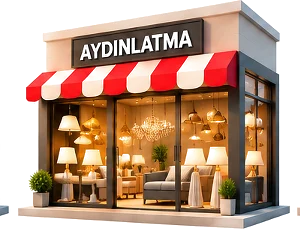
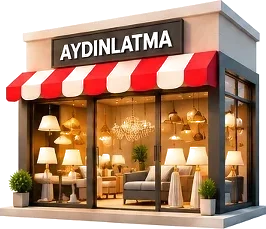
listing screen: R39 again, R45-R48
R39 Only half of what depends on the location had been taught the difference between "no
location" and "not read back yet" -- the sentence above the button had not, and it was the
sentence that was flashing.

R45 The heading is centred in the room it has rather than starting at the edge of it, and
the phrase on the second line is capitalised as a line. R46 The place being searched from
loses its frame: it names where the search is, it is not a control; the clear control takes
the ink of the control beside it, and its rule belongs to the words rather than running on
under the broom, which made the broom look struck through.

R47 The two tiles take the ground the shop marks sit on, one ink for both marks, and the
rule that separates the shops below them.

R48 Six of the drawn shops carried a sliver of a neighbour at one edge. The strays that
stood apart came off by keeping the largest connected drawing; the ones joined by an
anti-aliased fringe needed the column profile -- a shop is a broad mass, a leftover is a
narrow band with a valley between it and the mass.

diff --git a/src/i18n/dictionaries.ts b/src/i18n/dictionaries.ts
@@ -1,6 +1,6 @@
 import type { Locale } from '@/lib/types';
 export const dictionaries={
-tr:{purchasedLabel:'Satın alınan',lowScoreRule:'1 ve 2 puan verilen değerlendirmelerde açıklama yapmak zorunludur. “Detay gör”e tıklayarak açıklamayı görebilirsin.',lowScoreRuleTitle:'Neden bu uyarı var?',whyWarning:'Bu uyarı ne demek?',purchaseMade:'Alışveriş yapılmış',productLabel:'ürün',seeDetail:'Detay gör',hideDetail:'Detayı gizle',home:'Ana Sayfa',discover:'Keşfet',favorites:'Favoriler',profile:'Profil',create:'Yorum Yaz',wordmark:'Boşa Gezme!',feedTitle:'Gerçek mağazalar. Gerçek deneyimler.',feedIntro:'İnsanların ev ve yaşam mağazalarında neler keşfettiğine göz at.',siteSnippet:'Boşa Gezme!, gerçek ev ve yaşam mağazalarını değerlendirmeye yarayan bir topluluk platformudur.',verified:'Doğrulanmış ziyaret',save:'Kaydet',saveStore:'Mağazayı kaydet',share:'Paylaş',review:'Yorum yaz',directions:'Yol tarifi',callStore:'Ara',searchTitle:'Sana uygun [mağazaları bul]',searchHint:'salonum için perde arıyorum',searchAction:'Ara',recent:'Son aramalar',categories:'Ev ve yaşam kategorileri',searchCount:'Aranma adedi',searchCountShort:'arama',nearby:'Yakınımda keşfet',results:'sonuç',showMoreResults:'Daha fazla göster',noCommunity:'Henüz değerlendirme yok.',firstReview:'İlk deneyimi sen paylaş.',communityRating:'Boşa Gezme!',googleRating:'Google',reviews:'yorum',reviewWord:'değerlendirme',storeQuestion:'Gitmeye değer mi?',about:'Mağaza hakkında',community:'Topluluk deneyimleri',signIn:'Giriş yap',signInTitle:'Devam etmek için giriş yap',google:'Google ile devam et',email:'E-posta ile devam et',later:'Şimdi değil',favoritesTitle:'Değerlendirme için kaydettiğin mağazalar',favoritesEmpty:'Kaydettiğin mağazaları görmek için giriş yapmalısın.',favoritesSignedInEmpty:'Kaydedilmiş mağazanız yok.',createTitle:'Ziyaretini paylaş',profileTitle:'Profilin',language:'Dil',languageSaveError:'Dil hesabına kaydedilemedi. Tekrar dener misin?',close:'Kapat',lighting:'Aydınlatma',furniture:'Mobilya',textile:'Ev tekstili',decoration:'Dekorasyon',loading:'Aranıyor…',searchError:'Arama şu anda tamamlanamadı. Tekrar dene.',locationUnavailable:'Konum bu cihazda kullanılamıyor.',locationDenied:'Konum izni verilmedi. Bir konum seçerek devam edebilirsin.',currentLocation:'Mevcut konum',locatingYou:'Konumun alınıyor…',change:'Değiştir',clearLocation:'Konumu temizle',chooseLocation:'Konum seç',locationRequired:'Bulunduğun yere en yakın mağazaları listelememiz için mevcut konumunu kullan. İstersen konumunu kendin seçerek de ilerleyebilirsin.',authTermsPrefix:'Giriş yaparak ',authTermsLink:'Kullanım Koşulları',authTermsMiddle:'’nı kabul etmiş, ',authPrivacyLink:'Gizlilik Politikası',authPrivacyMiddle:' ve ',authKvkkLink:'KVKK Aydınlatma Metni',authTermsSuffix:'’ni okuduğunuzu onaylamış olursunuz.',authAgeNotice:'Devam ederek 16 yaşından büyük olduğunuzu beyan etmiş olursunuz. 16 yaşından küçük olduğunu öğrendiğimiz hesaplar kapatılır.',saveReason:'İleride değerlendirmek için',deleteReview:'Değerlendirmeyi sil',confirmDeleteReview:'Bu değerlendirme silinsin mi? Geri alınamaz.',deleteReviewFailed:'Değerlendirme silinemedi. Tekrar dener misin?',levelTitle:'Katkı seviyesi',level1:'Yeni Gezgin',level2:'Kaşif',level3:'Deneyimli',level4:'Rehber',level5:'Usta Rehber',promoted:'Öne çıkarılmış',catalogStore:'Katalog mağaza',openMapCredit:'Bu mağazanın kaydı açık haritadan alındı: © OpenStreetMap katkıcıları.',openMapCreditLink:'Lisans',approximateLocation:'Bu mağazanın tam konumu paylaşılmamış. Haritadaki yeri, adresine göre yaklaşık olarak işaretlendi.',searchStep1:'İsteğini okuyorum',searchStep2:'Yakınındaki mağazaları buluyorum',searchStep3:'Topluluk değerlendirmelerini tartıyorum',searchStep4:'En yakından uzağa sıralıyorum',signOut:'Çıkış yap',locationTitle:'Yakınındaki yerleri keşfet',locationBenefit:'Yakındaki mağazaları önce göstermek için konumunu yalnızca bu aramada kullanırız.',useCurrentLocation:'Mevcut konumu kullan',locationHint:'İlçe, mahalle veya şehir',noLocations:'Eşleşen bir konum bulunamadı.',locationResolveError:'Seçtiğin konum doğrulanamadı. Başka bir yer seçmeyi dener misin?',yourDistance:'Mesafen',scoreDetail:'Detay',noCriteriaYet:'Bu mağazanın ölçüt puanları henüz yok.',listedStores:'Listelenen mağaza',sortedBy:'Sıralama ölçütü',sortedByDistance:'Konum mesafesi',notFoundTitle:'Aradığın mağazayı bulamadıysan',notFoundBody:'Mağaza henüz kataloğumuzda yer almıyor olabilir.',notFoundInvite:'Sen ekleyerek diğer kullanıcılara da yardımcı olabilirsin.',addStore:'Mağaza ekle',addStoreTitle:'Mağaza ekle',addStoreIntro:'Mağazanın Google Haritalar bağlantısını yapıştır, biz de kataloğa eklemek için inceleyelim.',addStoreLabel:'Google Haritalar bağlantısı',addStoreSend:'Gönder',addStoreSending:'Gönderiliyor…',addStoreDone:'Teşekkürler, önerini aldık. İnceleyip kataloğa ekleyeceğiz.',addStoreInvalid:'Bu bir Google Haritalar bağlantısına benzemiyor. Bağlantıyı mağaza sayfasındaki “Paylaş”tan alabilirsin.',addStoreFailed:'Öneri gönderilemedi. Tekrar dener misin?',purchaseTitle:'Alışverişin',purchaseIntro:'Bu ziyaretinde bir şey aldın mı? Cevabın, mağazanın aradığın ürünü bulundurup bulundurmadığını bir sonraki kişiye anlatır.',purchaseQuestion:'Alışveriş yaptın mı?',purchasedItemLabel:'Ürün ismi',purchasedItemHint:'Ne aldığını kendi kelimelerinle yaz',purchasedYes:'Alışveriş yaptım',purchasedNo:'Alışveriş yapmadım',clearScores:'Seçimleri temizle',yes:'Evet',no:'Hayır',zeroTitle:'Tam eşleşme bulamadık',zeroBody:'Daha genel bir ürün ya da mağaza adı deneyebilirsin.'},
+tr:{purchasedLabel:'Satın alınan',lowScoreRule:'1 ve 2 puan verilen değerlendirmelerde açıklama yapmak zorunludur. “Detay gör”e tıklayarak açıklamayı görebilirsin.',lowScoreRuleTitle:'Neden bu uyarı var?',whyWarning:'Bu uyarı ne demek?',purchaseMade:'Alışveriş yapılmış',productLabel:'ürün',seeDetail:'Detay gör',hideDetail:'Detayı gizle',home:'Ana Sayfa',discover:'Keşfet',favorites:'Favoriler',profile:'Profil',create:'Yorum Yaz',wordmark:'Boşa Gezme!',feedTitle:'Gerçek mağazalar. Gerçek deneyimler.',feedIntro:'İnsanların ev ve yaşam mağazalarında neler keşfettiğine göz at.',siteSnippet:'Boşa Gezme!, gerçek ev ve yaşam mağazalarını değerlendirmeye yarayan bir topluluk platformudur.',verified:'Doğrulanmış ziyaret',save:'Kaydet',saveStore:'Mağazayı kaydet',share:'Paylaş',review:'Yorum yaz',directions:'Yol tarifi',callStore:'Ara',searchTitle:'Sana uygun [Mağazaları bul]',searchHint:'salonum için perde arıyorum',searchAction:'Ara',recent:'Son aramalar',categories:'Ev ve yaşam kategorileri',searchCount:'Aranma adedi',searchCountShort:'arama',nearby:'Yakınımda keşfet',results:'sonuç',showMoreResults:'Daha fazla göster',noCommunity:'Henüz değerlendirme yok.',firstReview:'İlk deneyimi sen paylaş.',communityRating:'Boşa Gezme!',googleRating:'Google',reviews:'yorum',reviewWord:'değerlendirme',storeQuestion:'Gitmeye değer mi?',about:'Mağaza hakkında',community:'Topluluk deneyimleri',signIn:'Giriş yap',signInTitle:'Devam etmek için giriş yap',google:'Google ile devam et',email:'E-posta ile devam et',later:'Şimdi değil',favoritesTitle:'Değerlendirme için kaydettiğin mağazalar',favoritesEmpty:'Kaydettiğin mağazaları görmek için giriş yapmalısın.',favoritesSignedInEmpty:'Kaydedilmiş mağazanız yok.',createTitle:'Ziyaretini paylaş',profileTitle:'Profilin',language:'Dil',languageSaveError:'Dil hesabına kaydedilemedi. Tekrar dener misin?',close:'Kapat',lighting:'Aydınlatma',furniture:'Mobilya',textile:'Ev tekstili',decoration:'Dekorasyon',loading:'Aranıyor…',searchError:'Arama şu anda tamamlanamadı. Tekrar dene.',locationUnavailable:'Konum bu cihazda kullanılamıyor.',locationDenied:'Konum izni verilmedi. Bir konum seçerek devam edebilirsin.',currentLocation:'Mevcut konum',locatingYou:'Konumun alınıyor…',change:'Değiştir',clearLocation:'Konumu temizle',chooseLocation:'Konum seç',locationRequired:'Bulunduğun yere en yakın mağazaları listelememiz için mevcut konumunu kullan. İstersen konumunu kendin seçerek de ilerleyebilirsin.',authTermsPrefix:'Giriş yaparak ',authTermsLink:'Kullanım Koşulları',authTermsMiddle:'’nı kabul etmiş, ',authPrivacyLink:'Gizlilik Politikası',authPrivacyMiddle:' ve ',authKvkkLink:'KVKK Aydınlatma Metni',authTermsSuffix:'’ni okuduğunuzu onaylamış olursunuz.',authAgeNotice:'Devam ederek 16 yaşından büyük olduğunuzu beyan etmiş olursunuz. 16 yaşından küçük olduğunu öğrendiğimiz hesaplar kapatılır.',saveReason:'İleride değerlendirmek için',deleteReview:'Değerlendirmeyi sil',confirmDeleteReview:'Bu değerlendirme silinsin mi? Geri alınamaz.',deleteReviewFailed:'Değerlendirme silinemedi. Tekrar dener misin?',levelTitle:'Katkı seviyesi',level1:'Yeni Gezgin',level2:'Kaşif',level3:'Deneyimli',level4:'Rehber',level5:'Usta Rehber',promoted:'Öne çıkarılmış',catalogStore:'Katalog mağaza',openMapCredit:'Bu mağazanın kaydı açık haritadan alındı: © OpenStreetMap katkıcıları.',openMapCreditLink:'Lisans',approximateLocation:'Bu mağazanın tam konumu paylaşılmamış. Haritadaki yeri, adresine göre yaklaşık olarak işaretlendi.',searchStep1:'İsteğini okuyorum',searchStep2:'Yakınındaki mağazaları buluyorum',searchStep3:'Topluluk değerlendirmelerini tartıyorum',searchStep4:'En yakından uzağa sıralıyorum',signOut:'Çıkış yap',locationTitle:'Yakınındaki yerleri keşfet',locationBenefit:'Yakındaki mağazaları önce göstermek için konumunu yalnızca bu aramada kullanırız.',useCurrentLocation:'Mevcut konumu kullan',locationHint:'İlçe, mahalle veya şehir',noLocations:'Eşleşen bir konum bulunamadı.',locationResolveError:'Seçtiğin konum doğrulanamadı. Başka bir yer seçmeyi dener misin?',yourDistance:'Mesafen',scoreDetail:'Detay',noCriteriaYet:'Bu mağazanın ölçüt puanları henüz yok.',listedStores:'Listelenen mağaza',sortedBy:'Sıralama ölçütü',sortedByDistance:'Konum mesafesi',notFoundTitle:'Aradığın mağazayı bulamadıysan',notFoundBody:'Mağaza henüz kataloğumuzda yer almıyor olabilir.',notFoundInvite:'Sen ekleyerek diğer kullanıcılara da yardımcı olabilirsin.',addStore:'Mağaza ekle',addStoreTitle:'Mağaza ekle',addStoreIntro:'Mağazanın Google Haritalar bağlantısını yapıştır, biz de kataloğa eklemek için inceleyelim.',addStoreLabel:'Google Haritalar bağlantısı',addStoreSend:'Gönder',addStoreSending:'Gönderiliyor…',addStoreDone:'Teşekkürler, önerini aldık. İnceleyip kataloğa ekleyeceğiz.',addStoreInvalid:'Bu bir Google Haritalar bağlantısına benzemiyor. Bağlantıyı mağaza sayfasındaki “Paylaş”tan alabilirsin.',addStoreFailed:'Öneri gönderilemedi. Tekrar dener misin?',purchaseTitle:'Alışverişin',purchaseIntro:'Bu ziyaretinde bir şey aldın mı? Cevabın, mağazanın aradığın ürünü bulundurup bulundurmadığını bir sonraki kişiye anlatır.',purchaseQuestion:'Alışveriş yaptın mı?',purchasedItemLabel:'Ürün ismi',purchasedItemHint:'Ne aldığını kendi kelimelerinle yaz',purchasedYes:'Alışveriş yaptım',purchasedNo:'Alışveriş yapmadım',clearScores:'Seçimleri temizle',yes:'Evet',no:'Hayır',zeroTitle:'Tam eşleşme bulamadık',zeroBody:'Daha genel bir ürün ya da mağaza adı deneyebilirsin.'},
 en:{purchasedLabel:'Bought',lowScoreRule:'An explanation is required for any heading scored one or two. Tap “See detail” to read it.',lowScoreRuleTitle:'Why is this marked?',whyWarning:'What does this mark mean?',purchaseMade:'Purchase made',productLabel:'product',seeDetail:'See detail',hideDetail:'Hide detail',home:'Home',discover:'Discover',favorites:'Favorites',profile:'Profile',create:'Create Review',wordmark:'Boşa Gezme!',feedTitle:'Real stores. Real experiences.',feedIntro:'See what people discovered inside home and living stores.',siteSnippet:'Boşa Gezme! is a community platform for reviewing real home and living stores.',verified:'Verified visit',save:'Save',share:'Share',review:'Review',directions:'Directions',callStore:'Call',searchTitle:'Find the [stores that suit you]',searchHint:'I am looking for curtains for my living room',searchAction:'Search',recent:'Recent searches',categories:'Home and living categories',searchCount:'Times searched',searchCountShort:'searches',nearby:'Discover nearby',results:'results',showMoreResults:'Show more',noCommunity:'No reviews yet.',firstReview:'Be the first to share your experience.',communityRating:'Boşa Gezme!',googleRating:'Google',reviews:'reviews',reviewWord:'reviews',storeQuestion:'Is it worth the trip?',about:'About this store',community:'Community experiences',signIn:'Sign in',signInTitle:'Sign in to continue',google:'Continue with Google',email:'Continue with Email',later:'Not now',favoritesTitle:'Places you want to visit',favoritesEmpty:'Sign in to see the stores you saved.',favoritesSignedInEmpty:'You have no saved stores.',createTitle:'Share your visit',profileTitle:'Your profile',language:'Language',languageSaveError:'We could not save the language to your account. Please try again.',close:'Close',lighting:'Lighting',furniture:'Furniture',textile:'Home textile',decoration:'Decoration',loading:'Searching…',searchError:'Search could not be completed. Try again.',locationUnavailable:'Location is unavailable on this device.',locationDenied:'Location access was not granted. You can choose a place instead.',currentLocation:'Current location',locatingYou:'Finding your location…',change:'Change',clearLocation:'Clear location',chooseLocation:'Choose a location',locationRequired:'Use your current location so we can list the stores nearest to you. You can also pick a location yourself.',authTermsPrefix:'By signing in you accept the ',authTermsLink:'Terms of Service',authTermsMiddle:' and confirm you have read the ',authPrivacyLink:'Privacy Policy',authPrivacyMiddle:' and the ',authKvkkLink:'KVKK Disclosure Notice',authTermsSuffix:'.',authAgeNotice:'By continuing you declare that you are over 16. Accounts we learn belong to someone under 16 are closed.',saveReason:'To review later',deleteReview:'Delete review',confirmDeleteReview:'Delete this review? This cannot be undone.',deleteReviewFailed:'The review could not be deleted. Try again?',levelTitle:'Contributor level',level1:'New explorer',level2:'Explorer',level3:'Seasoned',level4:'Guide',level5:'Master guide',promoted:'Promoted',catalogStore:'Catalogue store',openMapCredit:'This store’s record comes from the open map: © OpenStreetMap contributors.',openMapCreditLink:'Licence',approximateLocation:'This store has not shared its exact location. It is marked on the map roughly, from its address.',searchStep1:'Reading your request',searchStep2:'Finding stores near you',searchStep3:'Weighing community reviews',searchStep4:'Ordering nearest to farthest',signOut:'Sign out',locationTitle:'Discover places near you',locationBenefit:'We use your location only for this search to show nearby stores first.',useCurrentLocation:'Use current location',locationHint:'District, neighborhood, or city',noLocations:'No matching locations found.',locationResolveError:'That location could not be confirmed. Try choosing another one.',yourDistance:'Your distance',scoreDetail:'Detail',noCriteriaYet:'This store has no criterion scores yet.',listedStores:'Stores listed',sortedBy:'Sorted by',sortedByDistance:'Distance from your location',notFoundTitle:'Did not find the store you were looking for?',notFoundBody:'It may not be in our catalogue yet.',notFoundInvite:'Adding it helps everyone who looks for it next.',addStore:'Add a store',addStoreTitle:'Add a store',addStoreIntro:'Paste the store’s Google Maps link and we will review it for the catalogue.',addStoreLabel:'Google Maps link',addStoreSend:'Send',addStoreSending:'Sending…',addStoreDone:'Thank you — we have your suggestion and will review it.',addStoreInvalid:'That does not look like a Google Maps link. You can copy it from “Share” on the store’s Maps page.',addStoreFailed:'The suggestion could not be sent. Try again?',purchaseTitle:'Your purchase',purchaseIntro:'Did you buy anything on this visit? Your answer tells the next person whether the store had what they are looking for.',purchaseQuestion:'Did you buy anything?',purchasedItemLabel:'What you bought',purchasedItemHint:'Name it in your own words',purchasedYes:'Bought something',purchasedNo:'Did not buy anything',clearScores:'Clear the scores',yes:'Yes',no:'No',zeroTitle:'No close matches yet',zeroBody:'Try a broader product or store name.'},
 de:{purchasedLabel:'Gekauft',lowScoreRule:'Für jede mit einem oder zwei Punkten bewertete Rubrik ist eine Begründung Pflicht. Tippe auf „Details ansehen“, um sie zu lesen.',lowScoreRuleTitle:'Warum ist das markiert?',whyWarning:'Was bedeutet diese Markierung?',purchaseMade:'Einkauf getätigt',productLabel:'Produkt',seeDetail:'Details ansehen',hideDetail:'Details ausblenden',home:'Start',discover:'Entdecken',favorites:'Favoriten',profile:'Profil',create:'Bewertung erstellen',wordmark:'Boşa Gezme!',feedTitle:'Echte Geschäfte. Echte Erfahrungen.',feedIntro:'Entdecke, was Menschen in Wohn- und Einrichtungsgeschäften gefunden haben.',siteSnippet:'Boşa Gezme! ist eine Community-Plattform zur Bewertung echter Wohn- und Einrichtungsgeschäfte.',verified:'Verifizierter Besuch',save:'Speichern',share:'Teilen',review:'Bewerten',directions:'Route',callStore:'Anrufen',searchTitle:'Finde die [Geschäfte, die zu dir passen]',searchHint:'ich suche Vorhänge für mein Wohnzimmer',searchAction:'Suchen',recent:'Letzte Suchen',categories:'Wohn- und Lebenskategorien',searchCount:'Suchanfragen',searchCountShort:'Suchen',nearby:'In der Nähe entdecken',results:'Ergebnisse',showMoreResults:'Mehr anzeigen',noCommunity:'Noch keine Bewertungen.',firstReview:'Teile als Erste:r deine Erfahrung.',communityRating:'Boşa Gezme!',googleRating:'Google',reviews:'Bewertungen',reviewWord:'Bewertungen',storeQuestion:'Lohnt sich der Weg?',about:'Über dieses Geschäft',community:'Erfahrungen der Community',signIn:'Anmelden',signInTitle:'Zum Fortfahren anmelden',google:'Weiter mit Google',email:'Weiter mit E-Mail',later:'Nicht jetzt',favoritesTitle:'Orte, die du besuchen möchtest',favoritesEmpty:'Melde dich an, um deine gespeicherten Geschäfte zu sehen.',favoritesSignedInEmpty:'Du hast keine gespeicherten Geschäfte.',createTitle:'Teile deinen Besuch',profileTitle:'Dein Profil',language:'Sprache',languageSaveError:'Die Sprache konnte nicht in deinem Konto gespeichert werden. Bitte versuche es erneut.',close:'Schließen',lighting:'Beleuchtung',furniture:'Möbel',textile:'Heimtextilien',decoration:'Dekoration',loading:'Suche läuft…',searchError:'Die Suche konnte nicht abgeschlossen werden.',locationUnavailable:'Der Standort ist auf diesem Gerät nicht verfügbar.',locationDenied:'Der Standortzugriff wurde nicht erlaubt. Du kannst stattdessen einen Ort wählen.',currentLocation:'Aktueller Standort',locatingYou:'Dein Standort wird ermittelt…',change:'Ändern',clearLocation:'Standort löschen',chooseLocation:'Ort wählen',locationRequired:'Nutze deinen aktuellen Standort, damit wir die nächstgelegenen Geschäfte auflisten können. Du kannst auch selbst einen Ort wählen.',authTermsPrefix:'Mit der Anmeldung akzeptierst du die ',authTermsLink:'Nutzungsbedingungen',authTermsMiddle:' und bestätigst, die ',authPrivacyLink:'Datenschutzerklärung',authPrivacyMiddle:' und den ',authKvkkLink:'KVKK-Informationstext',authTermsSuffix:' gelesen zu haben.',authAgeNotice:'Mit dem Fortfahren erklärst du, über 16 Jahre alt zu sein. Konten von Personen unter 16 werden geschlossen, sobald wir davon erfahren.',saveReason:'Für später zum Bewerten',deleteReview:'Bewertung löschen',confirmDeleteReview:'Diese Bewertung löschen? Das lässt sich nicht rückgängig machen.',deleteReviewFailed:'Die Bewertung konnte nicht gelöscht werden. Erneut versuchen?',levelTitle:'Beitragsstufe',level1:'Neu unterwegs',level2:'Entdecker',level3:'Erfahren',level4:'Guide',level5:'Meister-Guide',promoted:'Hervorgehoben',catalogStore:'Kataloggeschäft',openMapCredit:'Der Eintrag dieses Geschäfts stammt aus der offenen Karte: © OpenStreetMap-Mitwirkende.',openMapCreditLink:'Lizenz',approximateLocation:'Dieses Geschäft hat seinen genauen Standort nicht angegeben. Auf der Karte ist es anhand seiner Adresse ungefähr eingezeichnet.',searchStep1:'Deine Anfrage wird gelesen',searchStep2:'Geschäfte in deiner Nähe werden gesucht',searchStep3:'Community-Bewertungen werden gewichtet',searchStep4:'Sortierung von nah nach fern',signOut:'Abmelden',locationTitle:'Orte in deiner Nähe entdecken',locationBenefit:'Wir verwenden deinen Standort nur für diese Suche, um nahe Geschäfte zuerst zu zeigen.',useCurrentLocation:'Aktuellen Standort verwenden',locationHint:'Bezirk, Viertel oder Stadt',noLocations:'Keine passenden Orte gefunden.',locationResolveError:'Dieser Ort konnte nicht bestätigt werden. Wähle bitte einen anderen.',yourDistance:'Deine Entfernung',scoreDetail:'Details',noCriteriaYet:'Für dieses Geschäft gibt es noch keine Kriterienwerte.',listedStores:'Gelistete Geschäfte',sortedBy:'Sortiert nach',sortedByDistance:'Entfernung von deinem Standort',notFoundTitle:'Das gesuchte Geschäft nicht gefunden?',notFoundBody:'Vielleicht ist es noch nicht in unserem Katalog.',notFoundInvite:'Wenn du es hinzufügst, hilfst du allen, die danach suchen.',addStore:'Geschäft hinzufügen',addStoreTitle:'Geschäft hinzufügen',addStoreIntro:'Füge den Google-Maps-Link des Geschäfts ein, wir prüfen ihn für den Katalog.',addStoreLabel:'Google-Maps-Link',addStoreSend:'Senden',addStoreSending:'Wird gesendet…',addStoreDone:'Danke — wir haben deinen Vorschlag und prüfen ihn.',addStoreInvalid:'Das sieht nicht nach einem Google-Maps-Link aus. Du findest ihn unter „Teilen“ auf der Maps-Seite des Geschäfts.',addStoreFailed:'Der Vorschlag konnte nicht gesendet werden. Erneut versuchen?',purchaseTitle:'Dein Einkauf',purchaseIntro:'Hast du bei diesem Besuch etwas gekauft? Deine Antwort sagt der nächsten Person, ob das Geschäft das Gesuchte führt.',purchaseQuestion:'Hast du etwas gekauft?',purchasedItemLabel:'Was du gekauft hast',purchasedItemHint:'Beschreibe es in deinen eigenen Worten',purchasedYes:'Etwas gekauft',purchasedNo:'Nichts gekauft',clearScores:'Bewertungen zurücksetzen',yes:'Ja',no:'Nein',zeroTitle:'Noch keine passenden Treffer',zeroBody:'Versuche einen allgemeineren Produkt- oder Geschäftsnamen.'},
 ru:{purchasedLabel:'Куплено',lowScoreRule:'Для любой рубрики с оценкой один или два объяснение обязательно. Нажмите «Показать детали», чтобы прочитать его.',lowScoreRuleTitle:'Почему стоит этот знак?',whyWarning:'Что означает этот знак?',purchaseMade:'Покупка совершена',productLabel:'товар',seeDetail:'Показать детали',hideDetail:'Скрыть детали',home:'Главная',discover:'Поиск',favorites:'Избранное',profile:'Профиль',create:'Написать отзыв',wordmark:'Boşa Gezme!',feedTitle:'Настоящие магазины. Настоящий опыт.',feedIntro:'Узнайте, что люди находят в магазинах товаров для дома.',siteSnippet:'Boşa Gezme! — сообщество для оценки настоящих магазинов товаров для дома.',verified:'Подтверждённое посещение',save:'Сохранить',share:'Поделиться',review:'Отзыв',directions:'Маршрут',callStore:'Позвонить',searchTitle:'Найдите [подходящие вам магазины]',searchHint:'ищу шторы для гостиной',searchAction:'Найти',recent:'Недавние запросы',categories:'Категории для дома и жизни',searchCount:'Число запросов',searchCountShort:'запр.',nearby:'Искать рядом',results:'результатов',showMoreResults:'Показать ещё',noCommunity:'Отзывов пока нет.',firstReview:'Поделитесь первым впечатлением.',communityRating:'Boşa Gezme!',googleRating:'Google',reviews:'отзывов',reviewWord:'отзывов',storeQuestion:'Стоит ли ехать?',about:'О магазине',community:'Отзывы сообщества',signIn:'Войти',signInTitle:'Войдите, чтобы продолжить',google:'Продолжить с Google',email:'Продолжить с эл. почтой',later:'Не сейчас',favoritesTitle:'Места, которые хочется посетить',favoritesEmpty:'Войдите, чтобы увидеть сохранённые магазины.',favoritesSignedInEmpty:'У вас нет сохранённых магазинов.',createTitle:'Расскажите о посещении',profileTitle:'Ваш профиль',language:'Язык',languageSaveError:'Не удалось сохранить язык в вашем аккаунте. Попробуйте ещё раз.',close:'Закрыть',lighting:'Освещение',furniture:'Мебель',textile:'Домашний текстиль',decoration:'Декор',loading:'Поиск…',searchError:'Не удалось выполнить поиск. Попробуйте ещё раз.',locationUnavailable:'Геопозиция недоступна на этом устройстве.',locationDenied:'Доступ к геопозиции не предоставлен. Можно выбрать место вручную.',currentLocation:'Текущее местоположение',locatingYou:'Определяем ваше местоположение…',change:'Изменить',clearLocation:'Очистить местоположение',chooseLocation:'Выбрать место',locationRequired:'Разрешите доступ к текущему местоположению, чтобы мы показали ближайшие магазины. Можно также выбрать место самостоятельно.',authTermsPrefix:'Выполняя вход, вы принимаете ',authTermsLink:'Условия использования',authTermsMiddle:' и подтверждаете, что прочитали ',authPrivacyLink:'Политику конфиденциальности',authPrivacyMiddle:' и ',authKvkkLink:'Уведомление KVKK',authTermsSuffix:'.',authAgeNotice:'Продолжая, вы подтверждаете, что вам больше 16 лет. Аккаунты лиц младше 16 закрываются, как только нам становится об этом известно.',saveReason:'Чтобы оценить позже',deleteReview:'Удалить отзыв',confirmDeleteReview:'Удалить этот отзыв? Это нельзя отменить.',deleteReviewFailed:'Не удалось удалить отзыв. Попробовать ещё раз?',levelTitle:'Уровень участника',level1:'Новичок',level2:'Исследователь',level3:'Опытный',level4:'Гид',level5:'Мастер-гид',promoted:'Продвигается',catalogStore:'Магазин каталога',openMapCredit:'Запись об этом магазине взята из открытой карты: © участники OpenStreetMap.',openMapCreditLink:'Лицензия',approximateLocation:'Магазин не указал точное расположение. На карте он отмечен примерно, по адресу.',searchStep1:'Читаем ваш запрос',searchStep2:'Ищем магазины рядом',searchStep3:'Взвешиваем отзывы сообщества',searchStep4:'Сортируем от ближних к дальним',signOut:'Выйти',locationTitle:'Найдите места рядом',locationBenefit:'Мы используем геопозицию только для этого поиска, чтобы сначала показать ближайшие магазины.',useCurrentLocation:'Использовать текущее местоположение',locationHint:'Район, квартал или город',noLocations:'Подходящие места не найдены.',locationResolveError:'Не удалось подтвердить это место. Попробуйте выбрать другое.',yourDistance:'Ваше расстояние',scoreDetail:'Подробнее',noCriteriaYet:'У этого магазина пока нет оценок по критериям.',listedStores:'Показано магазинов',sortedBy:'Сортировка',sortedByDistance:'По расстоянию от вас',notFoundTitle:'Не нашли нужный магазин?',notFoundBody:'Возможно, его ещё нет в нашем каталоге.',notFoundInvite:'Добавьте его — это поможет всем, кто будет искать его следом.',addStore:'Добавить магазин',addStoreTitle:'Добавить магазин',addStoreIntro:'Вставьте ссылку на магазин в Google Картах — мы проверим и добавим его в каталог.',addStoreLabel:'Ссылка на Google Карты',addStoreSend:'Отправить',addStoreSending:'Отправляем…',addStoreDone:'Спасибо — мы получили ваше предложение и рассмотрим его.',addStoreInvalid:'Это не похоже на ссылку Google Карт. Её можно скопировать в разделе «Поделиться» на странице магазина.',addStoreFailed:'Не удалось отправить предложение. Попробовать ещё раз?',purchaseTitle:'Ваша покупка',purchaseIntro:'Вы что-нибудь купили в этот визит? Ответ подскажет следующему покупателю, есть ли в магазине то, что он ищет.',purchaseQuestion:'Вы что-нибудь купили?',purchasedItemLabel:'Что вы купили',purchasedItemHint:'Назовите своими словами',purchasedYes:'Покупка была',purchasedNo:'Покупки не было',clearScores:'Сбросить оценки',yes:'Да',no:'Нет',zeroTitle:'Точных совпадений пока нет',zeroBody:'Попробуйте более общее название товара или магазина.'}} as const;

diff --git a/src/app/daylight.css b/src/app/daylight.css
@@ -116,7 +116,10 @@ svg{stroke-width:2}
    showing underneath. `backwards` plays the entrance and then lets this go back to being an
    ordinary box. */
 .search-hero{max-width:1440px;margin:0 auto;padding:68px 40px 54px;background:var(--canvas);color:var(--ink);animation:ink-in .62s cubic-bezier(.16,1,.3,1) backwards}
-.search-title{display:grid;grid-template-columns:minmax(0,1fr) auto;align-items:start;gap:24px}/* This is the one page where the line is not decoration: asking us is literally what the
+/* R45: the heading is centred in the room it has -- the space between the edge of the
+   screen and the shop -- rather than starting at the edge of it. */
+.search-title{display:grid;grid-template-columns:minmax(0,1fr) auto;align-items:center;gap:24px}
+.search-title h1{text-align:center}/* This is the one page where the line is not decoration: asking us is literally what the
    field below it does. */.search-slogan{margin:0 0 14px;font-size:13px;font-weight:600;text-transform:uppercase;letter-spacing:.1em;color:var(--accent-ink)}
 .search-title-shop{width:clamp(150px,20vw,260px);height:auto;justify-self:end;align-self:start}
 .search-hero h1{max-width:900px;font-size:clamp(44px,6vw,78px)}
@@ -158,7 +161,8 @@ svg{stroke-width:2}
 .location-control{display:flex;flex-wrap:wrap;align-items:center;gap:12px;color:var(--ink-muted)}
 /* R42: the pin stands outside the frame, level with the mark on the control beside it, so
    the two read as a pair of marked items rather than one badge and one button. */
-.location-current{display:inline-flex;align-items:center;min-height:40px;padding:4px 16px;border:1px solid var(--line);border-radius:var(--r-pill);background:var(--muted);color:var(--ink);font-size:14px;font-weight:650}
+/* R46: no frame. It names where the search is being made from; it is not a control. */
+.location-current{display:inline-flex;align-items:center;min-height:40px;padding:4px 2px;border:0;background:none;color:var(--ink);font-size:14px;font-weight:650}
 .location-current-mark{display:inline-flex;align-items:center;justify-content:center;width:17px;flex:none;color:var(--ink-muted)}
 .location-current-mark svg{width:17px;height:17px}
 .location-control{gap:8px}
@@ -971,7 +975,7 @@ svg{stroke-width:2}
 
 .profile-section-content .profile-form-actions .button.primary{background:var(--clay);color:var(--surface)}
 .account-loading-progress{height:2px;width:72px;background:var(--line-strong);margin-top:24px}
-.location-control.is-device .location-current{border-color:color-mix(in srgb,var(--success) 30%,var(--line));background:color-mix(in srgb,var(--success) 8%,var(--surface));color:var(--success)}
+.location-control.is-device .location-current{color:var(--success)}
 .location-control.is-device .location-current-mark{color:var(--success)}
 .search-form{position:relative}
 .search-query-suggestions{position:absolute;z-index:10;left:0;right:0;top:calc(100% + 8px);background:var(--surface);box-shadow:var(--lift);border-radius:var(--r-md);padding:8px 8px 24px}
@@ -1354,18 +1358,18 @@ svg{stroke-width:2}
 /* The two things somebody needs before they start down a long list: how much of it there
    is, and what decided the order. As two lines of small print above the list they read as a
    caption; in frames they read as the answer to a question. */
-.result-count{display:grid;grid-template-columns:repeat(2,minmax(0,1fr));gap:12px;margin:18px 0 8px}
+/* R47: the same ground the shop marks sit on, and the same rule that separates the shops
+   underneath, so the pair reads as the head of the list rather than as two loose cards. */
+.result-count{display:grid;grid-template-columns:repeat(2,minmax(0,1fr));gap:12px;margin:18px 0 0;padding-bottom:18px;border-bottom:1px solid var(--line)}
 .result-count>div{display:grid;grid-template-columns:auto minmax(0,1fr);align-items:center;gap:12px;min-width:0;padding:12px 14px;border-radius:var(--r-lg)}
 .result-count>div>div{display:grid;gap:2px;min-width:0}
-.result-count-total{background:color-mix(in srgb,var(--success) 9%,var(--surface))}
-.result-count-sort{background:var(--accent-wash)}
+.result-count-total,.result-count-sort{background:var(--muted)}
 .result-count-mark{display:grid;place-items:center;width:38px;height:38px;border-radius:var(--r-md);background:color-mix(in srgb,var(--surface) 72%,transparent);flex:none}
 .result-count-mark svg{width:20px;height:20px}
-.result-count-total .result-count-mark{color:var(--success)}
-.result-count-sort .result-count-mark{color:var(--clay)}
+.result-count-mark{color:var(--ink-muted)}
 .result-count dt{font-size:11px;text-transform:none;letter-spacing:0;color:var(--ink-muted);line-height:1.25}
 .result-count dd{margin:0;font-size:14px;font-weight:750;color:var(--ink)}
-.result-count-total dd{font-size:24px;line-height:1.05;color:var(--success)}
+.result-count-total dd{font-size:24px;line-height:1.05;color:var(--ink)}
 @media(max-width:330px){.result-count{grid-template-columns:minmax(0,1fr)}}
 /* The end of the list is a question too. */
 /* A notice, not a card in the list: its own ground, its own colour, and a mark that says so
@@ -1589,9 +1593,12 @@ svg{stroke-width:2}
    the width of its own words and centred both ways -- whichever kind of container it lands in. */
 /* A frame around this said "another thing to press" beside the results it undoes. It is
    a word and a broom now, over a rule that fades out the way a swept floor does. */
-.clear-results{position:relative;display:flex;width:fit-content;align-self:center;align-items:center;justify-content:center;gap:10px;min-height:44px;margin:14px auto 0;padding:0 2px 8px;border:0;border-radius:0;background:none;color:var(--ink);font-size:15px;font-weight:700;transition:color .16s ease}
-.clear-results::after{content:'';position:absolute;left:0;right:0;bottom:2px;height:2px;border-radius:2px;background:linear-gradient(90deg,var(--ink) 0%,color-mix(in srgb,var(--ink) 55%,transparent) 62%,transparent 100%)}
-.clear-results:hover{color:var(--accent-ink)}
+/* R46: the same ink as "change location", and the rule belongs to the words -- it used to
+   run on under the broom, which made the broom look struck through. */
+.clear-results{position:relative;display:flex;width:fit-content;align-self:center;align-items:center;justify-content:center;gap:10px;min-height:44px;margin:14px auto 0;padding:0 2px;border:0;border-radius:0;background:none;color:var(--ink-muted);font-size:15px;font-weight:700;transition:color .16s ease}
+.clear-results>span{position:relative;padding-bottom:8px}
+.clear-results>span::after{content:'';position:absolute;left:0;right:0;bottom:2px;height:2px;border-radius:2px;background:linear-gradient(90deg,currentColor 0%,color-mix(in srgb,currentColor 55%,transparent) 62%,transparent 100%)}
+.clear-results:hover{color:var(--ink)}
 /* Sized here rather than on the mark's own class: a descendant selector outranks it, and
    that is exactly how a magnifier on this page stayed 18px while its own rule said 32. */
 .clear-results svg{width:26px;height:26px;flex:none}
@@ -1723,8 +1730,8 @@ svg{stroke-width:2}
    needs -- it was the full width of the sheet for a decision that is two words long. */
 .category-sheet-foot{display:grid;grid-template-columns:minmax(0,1fr) minmax(0,1fr);align-items:end;gap:14px}
 .category-sheet-sign{width:100%;max-width:150px;height:auto;justify-self:start;align-self:end}
-.category-sheet-act{display:grid;gap:8px;justify-items:end}
-.category-sheet-lead{margin:0;text-align:right;font-size:13px;font-weight:700;letter-spacing:.08em;text-transform:uppercase;color:var(--ink-muted)}
+.category-sheet-act{display:grid;gap:8px;justify-items:stretch}
+.category-sheet-lead{margin:0;text-align:center;font-size:13px;font-weight:700;letter-spacing:.08em;text-transform:uppercase;color:var(--ink-muted)}
 .category-sheet-search{min-height:52px;width:100%}
 .category-sheet-search.button.primary{background:var(--clay);color:var(--surface)}
 .category-sheet-search.button.primary:hover{background:color-mix(in srgb,var(--clay) 88%,var(--ink))}

diff --git a/src/components/SearchExperience.tsx b/src/components/SearchExperience.tsx
@@ -812,7 +812,7 @@ export function SearchExperience() {
   // answer "what shall I type" should not be holding half its answers back.
   const stripPhrases=Array.from(new Set([...strip.phrases,...seasonalPool(locale)]));
   const prompts=stripPhrases;
-  return <main className="search-page"><header className="search-hero"><div className="search-title"><h1>{emphasisedTitle(t('searchTitle'),'search-title-mark')}</h1><Image className="search-title-shop" src="/illustrations/store-front.webp" width={520} height={345} alt="" aria-hidden="true" priority/></div>{!location&&<p className="location-lead">{t('locationRequired')}</p>}{location&&!sheetOpen&&<div className={`location-control${location.source==='device'?' is-device':''}`}><span className="location-current-mark" aria-hidden="true"><MapPin/></span><span className="location-current">{location.source==='device'?t('currentLocationActive'):location.label}</span>{/* One control, not two. The cross beside it cleared the location outright, which is a
+  return <main className="search-page"><header className="search-hero"><div className="search-title"><h1>{emphasisedTitle(t('searchTitle'),'search-title-mark')}</h1><Image className="search-title-shop" src="/illustrations/store-front.webp" width={520} height={345} alt="" aria-hidden="true" priority/></div>{locationRestored&&!location&&<p className="location-lead">{t('locationRequired')}</p>}{location&&!sheetOpen&&<div className={`location-control${location.source==='device'?' is-device':''}`}><span className="location-current-mark" aria-hidden="true"><MapPin/></span><span className="location-current">{location.source==='device'?t('currentLocationActive'):location.label}</span>{/* One control, not two. The cross beside it cleared the location outright, which is a
           thing almost nobody wants and everybody could hit by accident -- and "Konumu
           değiştir" already opens the place to change it, including to somewhere else. */}
         <button className="location-change" onClick={()=>setLocationOpen(true)} disabled={loading}><Crosshair aria-hidden="true"/>{t('changeLocation')}</button></div>}{sheetOpen&&<section className="location-sheet" aria-label={t('chooseLocation')}>{location&&<div><p>{t('locationBenefit')}</p></div>}<div className="location-actions">{autoLocating&&<p className="location-working" aria-live="polite"><span className="location-pulse" aria-hidden="true"/>{t('locatingYou')}</p>}{/* One control, two states. It used to be swapped for a separate confirmation line,
@@ -867,7 +867,7 @@ export function SearchExperience() {
         phone leaves the site entirely as often as not. It sits directly under the field it
         undoes, and it clears the answer rather than navigating: the question stays in the
         bar, so changing one word is still one tap away. */}
-    {data&&!loading&&<button type="button" className="clear-results" onClick={()=>{setData(undefined);setSuggestionsOpen(false);}}>{t('clearResults')}<Image className="clear-results-mark" src="/illustrations/broom.webp" width={88} height={104} alt="" aria-hidden="true"/></button>}{/* The panel opens above these, it does not replace them. Hiding them while somebody
+    {data&&!loading&&<button type="button" className="clear-results" onClick={()=>{setData(undefined);setSuggestionsOpen(false);}}><span>{t('clearResults')}</span><Image className="clear-results-mark" src="/illustrations/broom.webp" width={88} height={104} alt="" aria-hidden="true"/></button>}{/* The panel opens above these, it does not replace them. Hiding them while somebody
         changes their location threw away the recent searches and the categories they were
         about to pick from, and put them back only once the location was settled. */}
     {/* Recent searches used to sit here, on the page. They belong with the field instead:

diff --git a/docs/CHANGELOG.md b/docs/CHANGELOG.md
@@ -8,6 +8,27 @@ value involved.
 
 ---
 
+## The search screen, again: what flashed, what was framed, and what was drawn beside a shop
+
+The dark "use my location" button still appeared for a frame on reload, because only half of
+what depends on the location had been taught the difference between "no location" and "not
+read back yet". The sentence above it had not, and it was the sentence that was flashing.
+
+The heading is centred in the room it has rather than starting at the edge of it, and the
+phrase that takes the second line is capitalised as a line. The place being searched from
+loses its frame: it names where the search is, it is not a control. "Listelemeyi temizle"
+takes the same ink as the control beside it, and its rule belongs to the words -- it used to
+run on under the broom, which made the broom look struck through.
+
+The two tiles above the results take the ground the shop marks sit on, one ink for both
+marks, and the rule that separates the shops below them, so the pair reads as the head of the
+list rather than as two loose cards.
+
+And the drawn shops: six of them carried a sliver of a neighbouring shop at one edge. The
+strays that stood apart came off by keeping the largest connected drawing; the ones joined by
+an anti-aliased fringe needed the column profile instead -- a shop is a broad mass, a
+leftover is a narrow band with a valley between it and the mass.
+
 ## The shop page was never scrolling; the footer was climbing
 
 Third report, and the reporter's own screen recording settles it. A frame from it shows the
